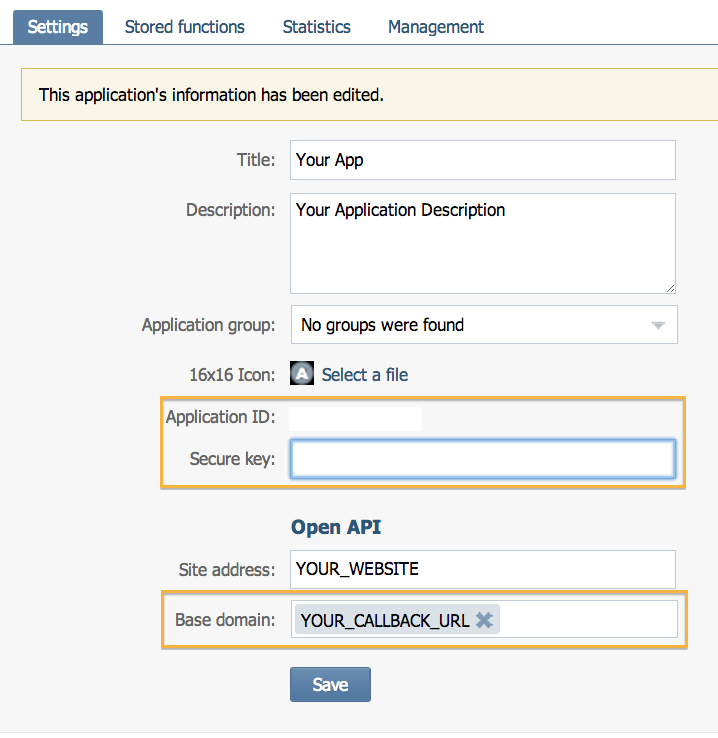
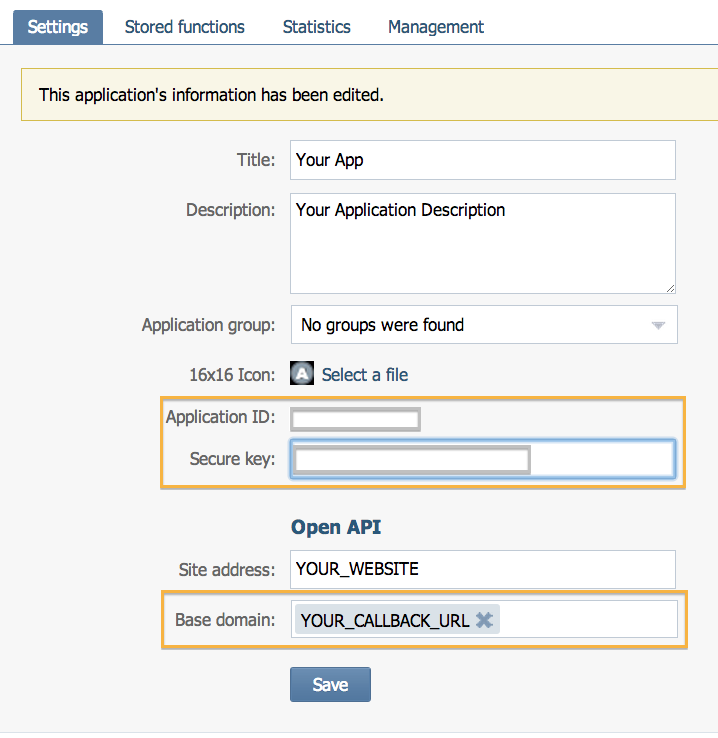
Updated vK docs

Changed region(s): [[0.3983, 0.5298, 0.7354, 0.6545]]

diff --git a/docs/vkontakte-clientid.md b/docs/vkontakte-clientid.md
@@ -1,4 +1,4 @@
-# Obtaining a ClientId and Client Secret for vKontakte
+# Obtaining an Application ID and Secure Key for vKontakte
 
 To configure an vKontakte connection you will need to register your Auth0 instance as a vKontakte application.
 
@@ -25,9 +25,9 @@ The callback address for your app should be:
 
 ---
 
-##3. Get your ClientId and ClientSecret
+##3. Get your Application ID and Secure Key
 
-Once the application is registered, enter your new `ClientId` and `ClientSecret` into the connection settings in Auth0.
+Once the application is registered, enter your new `Application ID` and `Secure Key` into the connection settings in Auth0.
 
 ![](img/vkontakte-add-connection.png)
 
